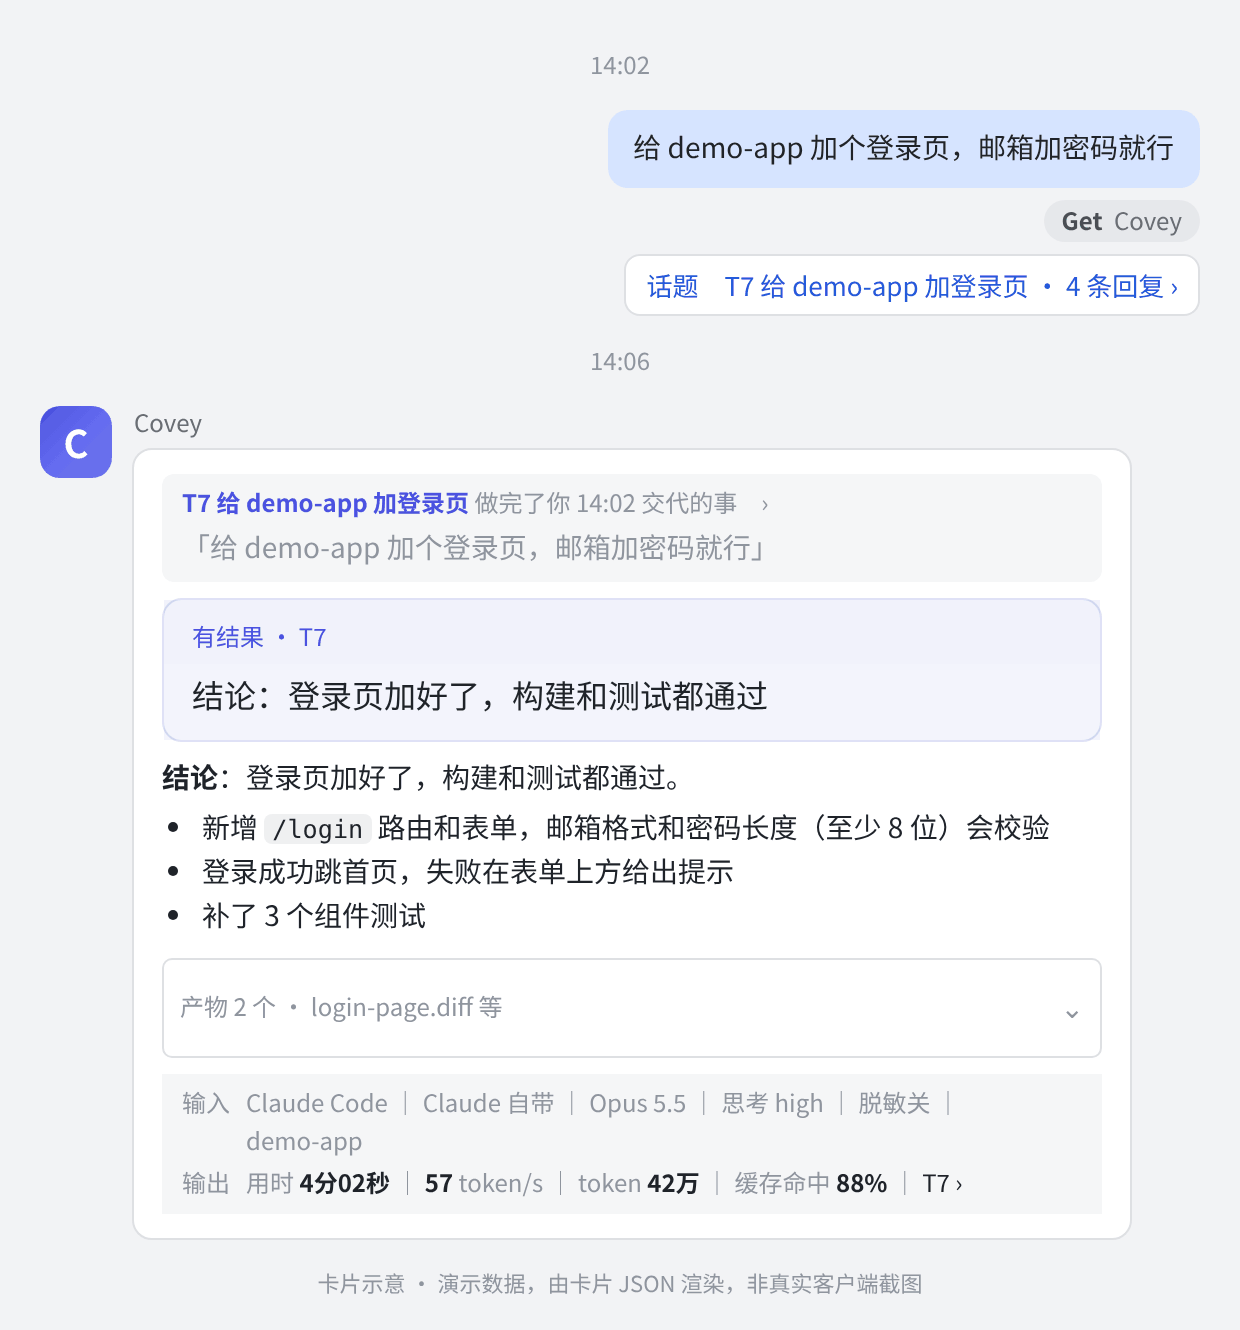
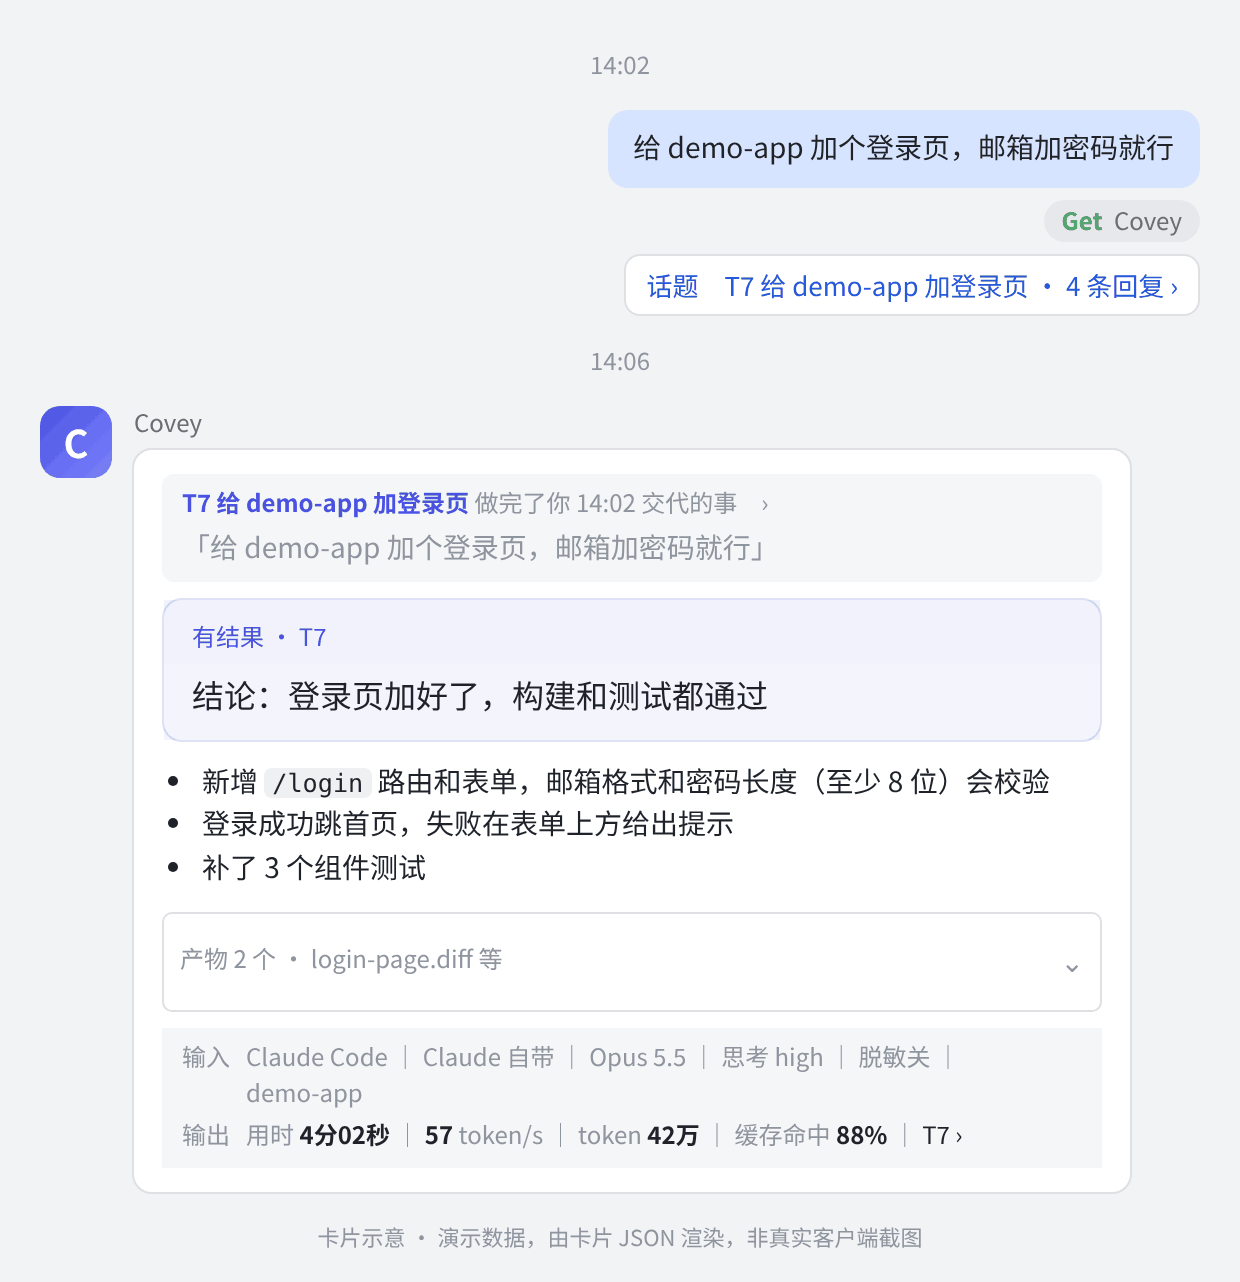
README sketches no longer show the conclusion twice (T604)
540e9bc made the answer card start after the line its conclusion band already shows, but the README's
03-answer-card.png and 01-butler.png still showed both. The answer sketch built its band by hand and
passed no said=, so it kept the old card; it now makes the card the way app/answer_delivery.py does (the
band over answer_lead of the reply, said= that lead). Re-rendered per docs/testing.md 卡片示意图 with
Playwright's headless Chromium; 02, 04 and 05 came out byte-identical and are unchanged.

diff --git a/scripts/card_sketches.py b/scripts/card_sketches.py
@@ -155,11 +155,14 @@ def task_sketch():
 
 
 def answer_sketch():
-    """The answer card in the topic: the conclusion band, the answer, 产物 and 输入/输出."""
+    """The answer card in the topic as app/answer_delivery.py makes it: the conclusion band over the reply's lead
+    (app/saved_send.py status_head), the answer after that line (``said``: not said twice), 产物 and 输入/输出."""
     from covey.cards.answer_card import input_parts, tail
-    from covey.cards.review import answer_band, answer_card
+    from covey.cards.review import answer_band, answer_card, answer_lead
+    from covey.core.failure import HEADLINE_CHARS
+    lead = answer_lead(answer_text(), HEADLINE_CHARS)
     card = answer_card(answer_text(), f"{LABEL} 有结果 · 结论", tail(artifacts(), input_parts(*INPUTS), outputs(242)),
-                       [answer_band("done", LABEL, TITLE, "登录页加好了，构建和测试都通过")])
+                       [answer_band("done", LABEL, TITLE, lead)], said=lead)
     return [("card", card)]
 
 
